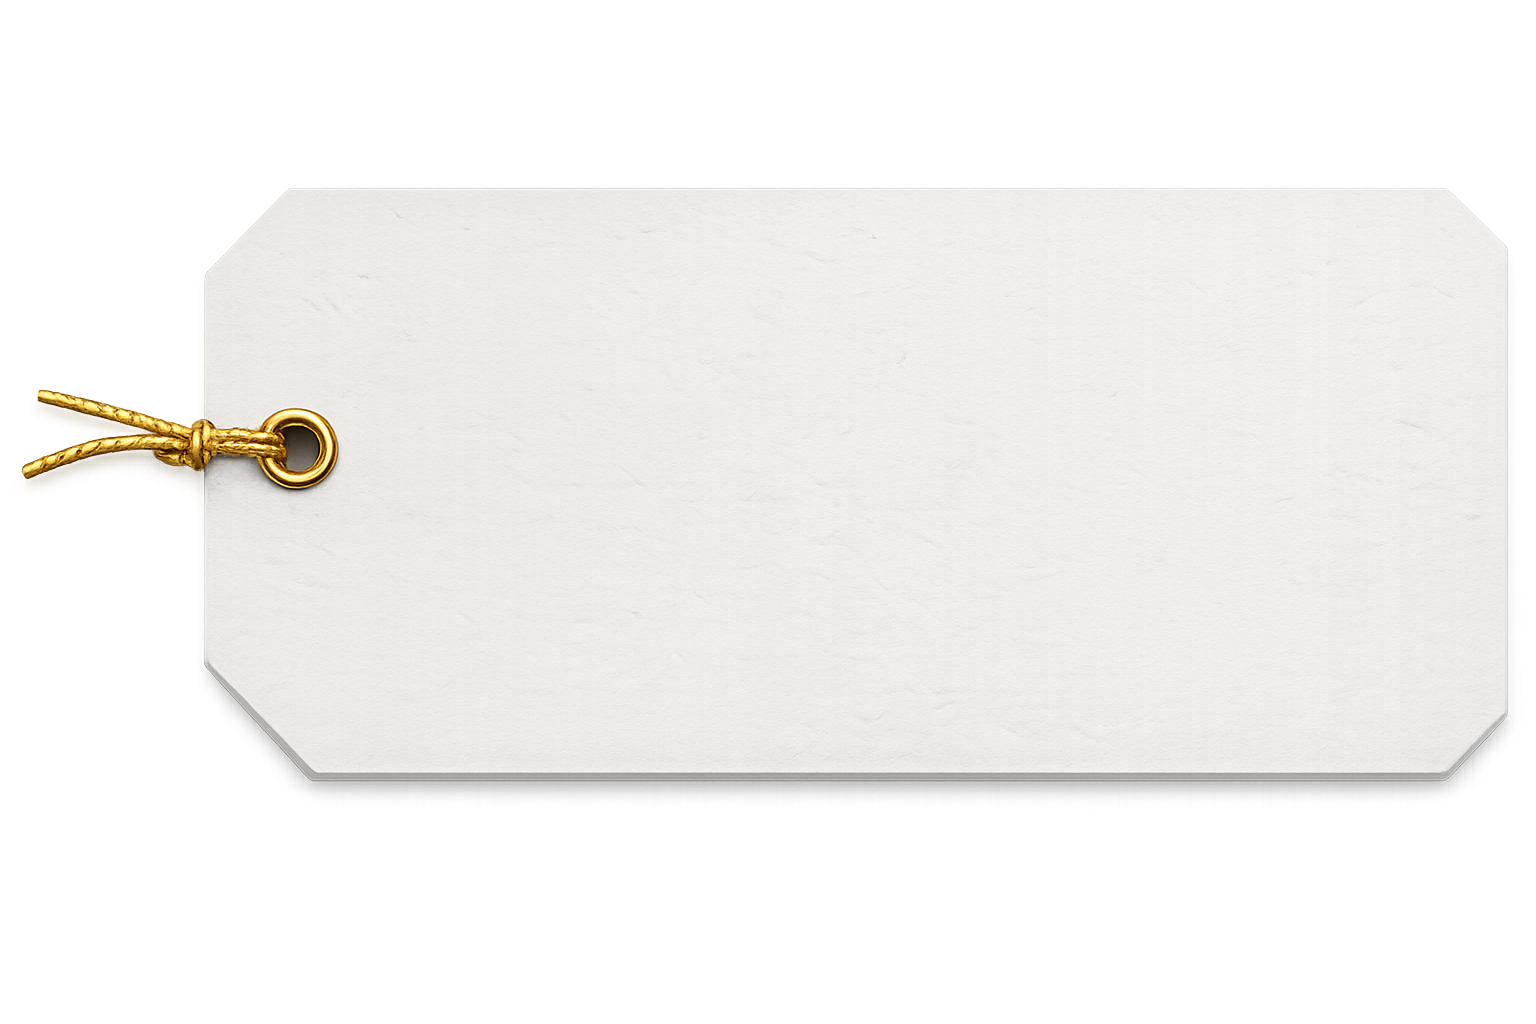
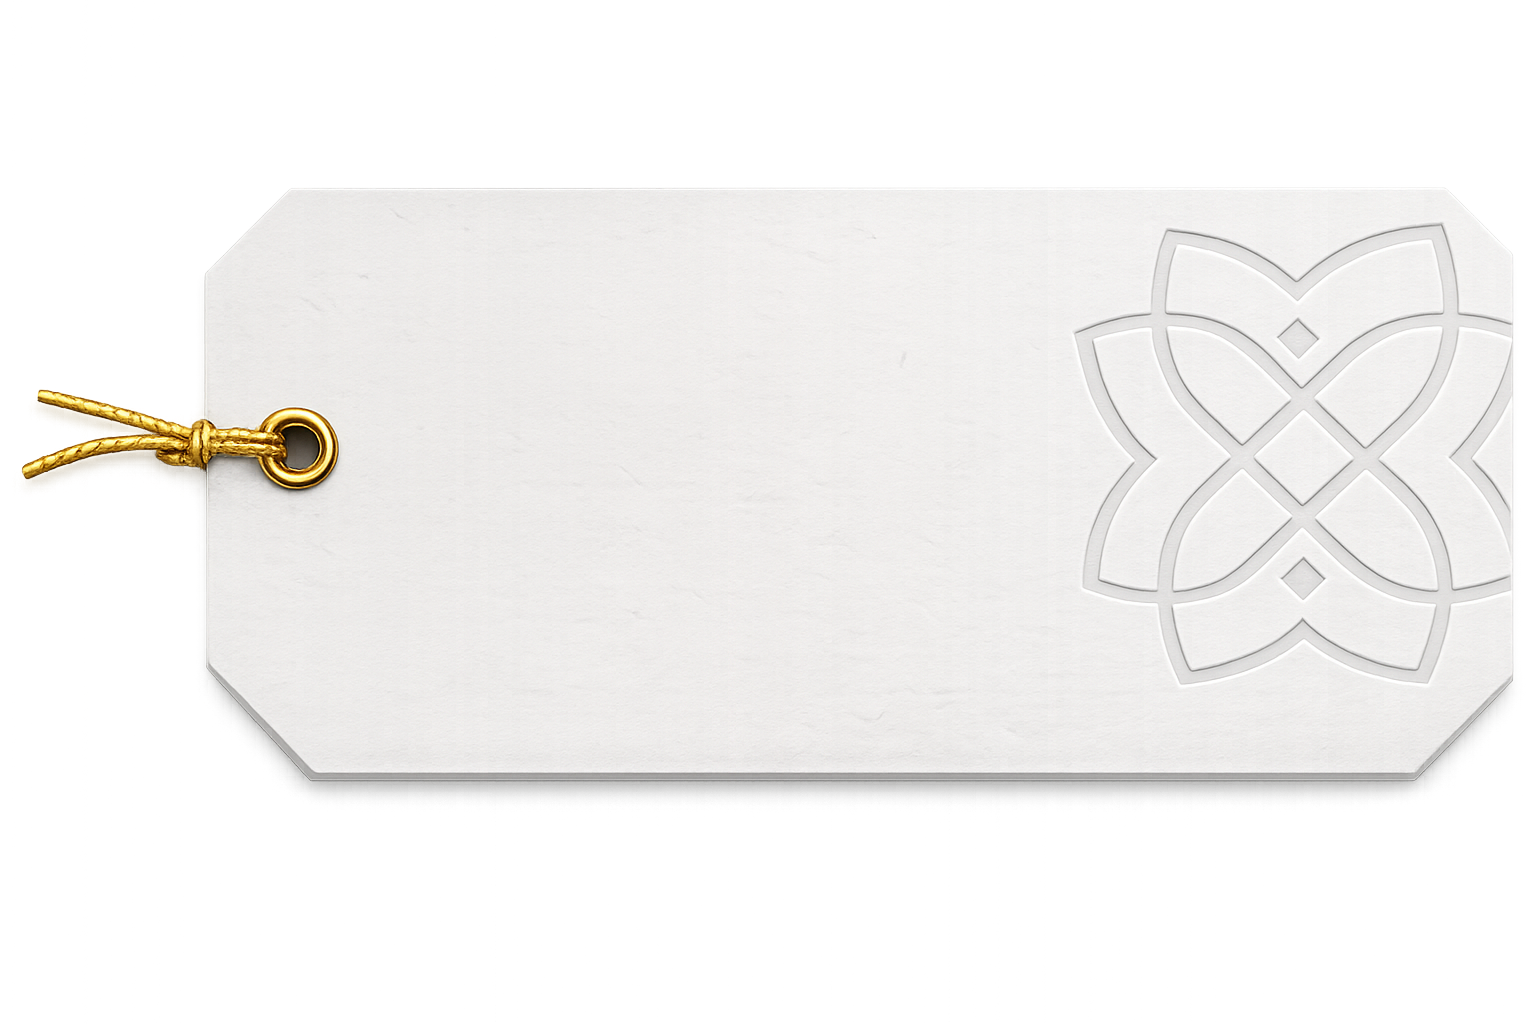
better price tag and fixed translation

diff --git a/layouts/index.html b/layouts/index.html
@@ -186,16 +186,24 @@
     </div>
   </section>
 
+  {{ $isRu := or (eq .Language.Lang "ru") (eq .Language.Lang "rus") }}
+  {{ $stilfrageAlt := cond $isRu "Наталия за рабочим столом" "Natalia am Schreibtisch" }}
+  {{ $stilfrageIntro := cond $isRu "Для моментов,<br>когда вы не уверены." "Für Momente,<br>in denen du dir nicht sicher bist." }}
+  {{ $stilfrageHeading := cond $isRu "Вопрос стилисту Наталии" "Stilfrage an Natalia" }}
+  {{ $stilfrageQuote := cond $isRu "Иногда достаточно честного второго мнения. Задайте свой вопрос о стиле и принимайте уверенные решения при покупке, сочетании вещей и своем образе." "Manchmal reicht eine ehrliche zweite Meinung. Stelle deine Stilfrage und triff sichere Entscheidungen beim Kaufen, Kombinieren und Auftreten." }}
+  {{ $offersHeading := cond $isRu "Мои предложения" "Meine Angebote" }}
+  {{ $offersMoreText := cond $isRu "Другие предложения" "Weitere Angebote" }}
+
   <section class="section stilfrage-section" id="stilfrage">
     <div class="stilfrage-bg">
-      {{ partial "responsive-image.html" (dict "src" "images/backgrounds/sections/natalia_desk.png" "alt" "Natalia am Schreibtisch" "class" "stilfrage-bg-img" "loading" "lazy" "decoding" "async") }}
+      {{ partial "responsive-image.html" (dict "src" "images/backgrounds/sections/natalia_desk.png" "alt" $stilfrageAlt "class" "stilfrage-bg-img" "loading" "lazy" "decoding" "async") }}
     </div>
     <div class="container">
       <div class="stilfrage-copy-column">
-        <p class="coach-intro-copy">Für Momente,<br>in denen du dir nicht sicher bist.</p>
-        <h2 class="coach-heading">Stilfrage an Natalia</h2>
+        <p class="coach-intro-copy">{{ $stilfrageIntro | safeHTML }}</p>
+        <h2 class="coach-heading">{{ $stilfrageHeading }}</h2>
         <blockquote class="coach-mission">
-          <p class="coach-mission-main">Manchmal reicht eine ehrliche zweite Meinung. Stelle deine Stilfrage und triff sichere Entscheidungen beim Kaufen, Kombinieren und Auftreten.</p>
+          <p class="coach-mission-main">{{ $stilfrageQuote }}</p>
         </blockquote>
         <div class="coach-actions">
           {{ range $services.free.items }}
@@ -213,9 +221,9 @@
     </div>
   </section>
 
-  <section class="section ps-section offers-free-section-wrapper">
+  <section class="section ps-section offers-free-section-wrapper" id="angebote">
     <div class="container">
-      <h2>Meine Angebote</h2>
+      <h2>{{ $offersHeading }}</h2>
       <section class="offers-free-section">
         <div class="offers-free-grid">
           {{ range $idx, $item := first 2 $services.free.items }}
@@ -247,9 +255,12 @@
         </div>
       </section>
       <div class="offers-home-actions">
-        <a class="offers-home-tag" href="{{ "angebote" | relLangURL }}" title="Weitere Angebote" aria-label="Weitere Angebote">
-          <span class="benefits-tag-text">Weitere Angebote</span>
-          <img src="{{ "images/sign_black.png" | relURL }}" alt="" class="offers-home-tag-sign" loading="lazy" width="42" height="42" aria-hidden="true">
+        <a class="offers-home-tag" href="{{ "angebote" | relLangURL }}" title="{{ $offersMoreText }}" aria-label="{{ $offersMoreText }}">
+          {{ if $isRu }}
+            <span class="benefits-tag-text">Другие<br>предложения</span>
+          {{ else }}
+            <span class="benefits-tag-text">Weitere<br>Angebote</span>
+          {{ end }}
         </a>
       </div>
     </div>

diff --git a/static/css/main.css b/static/css/main.css
@@ -1893,9 +1893,9 @@ h1 {
 .offers-home-tag {
   position: relative;
   display: grid;
-  grid-template-columns: minmax(0, 1fr) 3.2rem;
-  column-gap: 1rem;
-  align-items: center;
+  grid-template-columns: minmax(0, 1fr);
+  column-gap: 0;
+  place-items: center;
   aspect-ratio: 3 / 2;
   min-height: 0;
   height: auto;
@@ -1927,23 +1927,15 @@ h1 {
   position: relative;
   z-index: 1;
   grid-column: 1;
-  margin-left: clamp(2.1rem, 4.8vw, 2.9rem);
+  margin: 0;
+  transform: translateY(-0.32rem);
   color: #3f2a1a;
-  font-size: 1.05rem;
-  font-weight: 700;
+  font-size: 1.22rem;
+  font-weight: 500;
   line-height: 1.2;
-  white-space: nowrap;
+  white-space: normal;
+  text-align: center;
   text-shadow: none;
-}
-
-.offers-home-tag-sign {
-  position: relative;
-  z-index: 1;
-  grid-column: 2;
-  justify-self: center;
-  width: 1.85rem;
-  height: 1.85rem;
-  object-fit: contain;
 }
 
 @media (width <= 560px) {
@@ -1952,17 +1944,12 @@ h1 {
     width: min(100%, 16rem);
     aspect-ratio: 3 / 2;
     padding: 0.8rem 1.25rem;
-    grid-template-columns: minmax(0, 1fr) 1.95rem;
+    grid-template-columns: minmax(0, 1fr);
   }
 
   .offers-home-tag .benefits-tag-text {
-    font-size: 0.86rem;
-    margin-left: 1.35rem;
-  }
-
-  .offers-home-tag-sign {
-    width: 1.55rem;
-    height: 1.55rem;
+    font-size: 0.98rem;
+    transform: translateY(-0.24rem);
   }
 }
 
